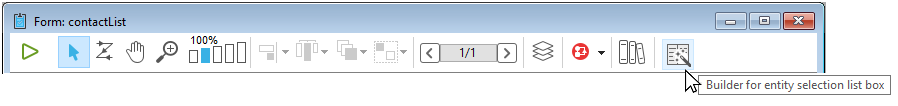
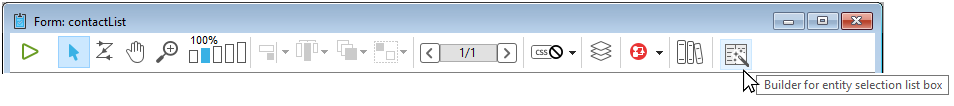
First draft of CSS Preview feature
Added CSS Preview content to form editor and style sheet pages. Added form editor interface content from livedoc to form editor page.

Changed region(s): [[0.0, 0.3113, 0.9978, 0.9057], [0.7795, 0.0, 0.9354, 0.7075], [0.0, 0.1132, 0.1559, 0.283]]

diff --git a/docs/FormEditor/formEditor.md b/docs/FormEditor/formEditor.md
@@ -3,6 +3,177 @@ id: formEditor
 title: Form Editor
 ---
 
+
+## Interface
+
+The Form editor interface displays each form in its own window, which has both an object and tool bar. You can have several forms open at the same time. The rulers on the side and bottom help you position objects in the form. You can change measurement units so that it displays inches, centimeters, or pixels.
+
+### Showing/hiding elements 
+
+You can show or hide most interface elements in the Form editor. This feature allows you to show only the elements that you need to create or view in a form, or only the tools that you want to use. This option is always applied to the Form editor’s current window. For example, it is useful to show the output control lines when you are working on an output form.
+
+To show or hide an element in the Form editor:
+
+1.	Choose **Display** from the Form menu.
+	OR
+	Use the **Display** command in the context menu that appears in the Form editor’s window (right-click in the window without clicking on an object).
+	A hierarchical submenu appears listing all the elements that you can show or hide:<p>![](assets/en/FormEditor/showHideElements.png)<p>A check mark placed next to the element indicates that it will be shown. To hide an element, select the element so that the check mark disappears.
+
+2.	Select the element that you want to show or hide.<p>Here is a description of the commands in this menu:
+	*	**Inherited form**: Shows or hides inherited form objects (if there is an inherited form) on the current page of the form. For more information, refer to Using inherited forms.
+	*	**Page 0**: Shows or hides the objects from page 0 on the form’s current page. This option allows you to distinguish between the objects on the form’s current page and those on page 0. For more information about pages in forms, refer to the Creating a multi-page form section.
+	*	**Paper**: Shows or hides the borders of the printing page, which are shown as gray lines. This option may have no apparent effect when the Limits (see below) option is selected. If the size of the form is smaller than the printing page, the page’s borders are shown outside of the form’s viewing area and therefore do not appear. Refer to Printing a form.
+	*	**Rulers**: Shows or hides the rulers in the Form editor’s window.
+Markers: Shows or hides the output control lines and associated markers that show the limits of the form’s different areas.
+	*	**Marker Labels**: Shows or hides the marker labels, available only when the output control lines are displayed. For more information, refer to the Moving output control lines paragraph.
+	*	**Limits**: Shows or hides the form’s limits. When this option is selected, the form is displayed in the Form editor as it appears in Application mode. This way you can adjust your form without having to switch to the Application mode in order to see the result.
+
+	>The Size Based on, Hor margin and Vert margin settings of the form properties affect the form’s limits. When using these settings, the limits are based on the objects in the form. When you modify the size of an object that is located next to the form’s border, it is modified to reflect that change. For more information on form properties, refer to the Form properties section.
+
+
+
+
+
+### Using the toolbar
+
+The toolbar of the Form editor offers a set of tools to manipulate and modify the form. Each window has its own toolbar.
+
+![](assets/en/FormEditor/toolbar.png)
+
+The toolbar contains the following elements:
+
+|Icon |Name|Description |
+|---|---|---|
+|![](assets/en/FormEditor/execute.png)| Execute the form| Used to test the execution of the form. When you click on this button, 4D opens a new window and displays the form in its context (list of records for a list form and current record page for a detail form). The form is executed in the main process.|
+|![](assets/en/FormEditor/selection.png)| Selection tool|Allows selecting, moving and resizing form objects.<p>**Note**: When an object of the Text or Group Box type is selected, pressing the **Enter** key lets you switch to editing mode.|
+|![](assets/en/FormEditor/zOrder.png)| Entry order| Switches to “Entry order” mode, where it is possible to view and change the current entry order of the form. Note that shields now allow viewing the current entry order, while still working in the form. |
+|![](assets/en/FormEditor/moving.png)| Moving| Switches to “Move” mode, where it is possible to reach any part of the form quickly by using drag and drop in the window. The cursor takes the shape of a hand. This navigation mode is particularly useful when zooming in the form.|
+|![](assets/en/FormEditor/zoom.png)| [Zoom](#zoom)| Allows modifying the form display percentage (100% by default). You can switch to “Zoom” mode by clicking on the magnifying glass or by clicking directly on the desired bar. This feature is detailed in previous section.|
+|![](assets/en/FormEditor/alignment.png)| Alignment| This button is linked to a menu that allows aligning objects in the form. It is enabled (or not) depending on the objects selected.|
+|![](assets/en/FormEditor/distribution.png)| Distribution| This button is linked to a menu that allows distributing objects in the form. It is enabled (or not) depending on the objects selected.|
+|![](assets/en/FormEditor/level.png)| Level| This button is linked to a menu that allows changing the level of objects in the form. It is enabled (or not) depending on the objects selected. |
+|![](assets/en/FormEditor/group.png)| Group/Ungroup| This button is linked to a menu that allows grouping and ungrouping selections of objects in the form. It is enabled (or not) depending on the objects selected. |
+|![](assets/en/FormEditor/displyAndPage.png)| Display and page management| This area allows passing from one form page to another and adding pages. To navigate among form pages, click the arrow buttons, or click the central area and choose the page to display from the menu that appears. If you click the right arrow button while the last form page is displayed, 4D allows you to add a page. |
+|![](assets/en/FormEditor/cssPreviewicon.png) |[CSS Preview](#css-preview)|This button is used to select the CSS Mode to use. |
+|![](assets/en/FormEditor/views.png)| [Managing views](#views)|This button displays or hides the views palette. This new function is detailed in Using object views .|
+|![](assets/en/FormEditor/shields2.png)| [Displaying shields](#shields)| Each click on this button causes the successive display of each type of form shield. The button is also linked to a menu that allows directly selecting the type of shield to display. |
+|![](assets/en/FormEditor/library.png)| Preconfigured object library| This button displays the preconfigured object library that provides numerous objects with certain properties that have been predefined. |
+|![](assets/en/FormEditor/listBoxBuilder1.png)|[List Box Builder](#list-box-builder)|This button creates new entity selection list boxes. |
+
+### Using the object bar  
+
+The object bar contains all the active and inactive objects that can be used in 4D forms. Some objects are grouped together by themes (buttons, radio buttons, menus, etc.). Each theme includes several alternatives that you can choose between. When the object bar has the focus, you can select the buttons using the keys of the keyboard. The following table describes the object groups available and their associated shortcut key.
+
+|Button	|Group	|Key|
+|---|---|---|
+|![](assets/en/FormEditor/text.png)|	Text / Group Box|	T|
+|![](assets/en/FormEditor/input.png)|	Field / Variable|	F|
+|![](assets/en/FormEditor/listbox.png)|	Scrollable Area / Hierarchical List / List Box|	L|
+|![](assets/en/FormEditor/combo.png)|	Combo Box / Pop-up/Drop-down List / Hierarchical Pop-up Menu / Picture Pop-up Menu|	P|
+|![](assets/en/FormEditor/button.png)|	Button / 3D Button / Highlight Button / Invisible Button / Picture Button / Button Grid|	B|
+|![](assets/en/FormEditor/radio.png)|	Radio Button / 3D Radio Button / Picture Radio Button|	R|
+|![](assets/en/FormEditor/checkbox.png)|	Check Box / 3D Check Box|	C|
+|![](assets/en/FormEditor/indicator.png)|	Progress Indicator / Dial / Ruler	I
+|![](assets/en/FormEditor/rectangle.png)|	Rectangle / Line / Rounded Rectangle / Oval / Matrix	|S|
+|![](assets/en/FormEditor/splitter.png)|	Splitter / Tab Control	D|
+|![](assets/en/FormEditor/plugin.png)|	Plug-in Area / Subform / Web Area|	X|
+
+To draw an object type, select the corresponding button and then trace the object in the form. After creating an object, you can modify its type using the Property List. Hold down the **Shift** key as you draw to constrain the object to a regular shape. Lines are constrained to horizontal, 45°, or vertical, rectangles are constrained to squares, and ovals are constrained to circles.
+
+The current variant of the theme is the object that will be inserted in the form. When you click the right side of a button, you access the variant menu:
+
+![](assets/en/FormEditor/objectBar.png)
+
+When a button is selected, you can scroll through its variants using the **Shift+Selection** key shortcut. Help tips display the currently selected variant and the associated selection key of the object.
+
+You can click twice on the button so that it remains selected even after you have traced an object in the form (continual selection). This function makes creating several successive objects of the same type easier. To cancel a continual selection, click on another object or tool.
+
+### Using the Property List  
+
+Both forms and form objects have properties that control access to the form, the appearance of the form, and the behavior of the form when it is used. Form properties include, for example, the form’s name, its menu bar, and its size. Object Properties include, for example, an object’s name, its dimensions, its background color, and its font. 
+
+You can display and modify form and object properties using the Property List. It displays either form or objects properties depending on what you select in the editor window.
+
+To display/hide the Property List, choose **Property List** from the **Form** menu or from the context menu of the Form editor. You can also display it by double-clicking in an empty area of the form. 
+
+#### Navigation shortcuts  
+
+You can navigate in the Property List using the following shortcuts:
+
+*	**Arrow key**s ↑ ↓: Used to go from one cell to another.
+*	**Arrow keys** ← →: Used to expand/collapse themes or menus.
+*	**PgUp** and *PgDn*: Used to select the first or last visible cell of the Property List.
+*	**Home** and **End**: Used to select the first or last cell of the Property List.
+*	**Ctrl+click** (Windows) or **Command+click** (Mac OS) on an event: Used to select/deselect every event in the list, according to the initial state of the event on which you clicked.
+*	**Ctrl+click** (Windows) or **Command+click** (Mac OS) on a theme label: Used to Collapse/Expand every theme in the list.
+
+## CSS Preview
+
+The Form Editor provides two options for viewing styled objects:
+
+*	**Plain mode**<br>Only JSON form values defined in the Property List are applied and displayed in the Form Editor. 
+
+*	**CSS mode**<br>[Style sheet attributes](stylesheets.html) are applied and displayed in the Form Editor. 
+
+By default, forms (including inherited and subforms) are opened in the CSS Preview mode for your operating system.
+
+
+
+### View Modes
+
+|Toolbar Icon|CSS Mode |Description|
+|---|---|---|
+|![](assets/en/FormEditor/cssNo.png)|Plain|No CSS values or icons displayed|
+|![](assets/en/FormEditor/cssMac.png)|CSS|CSS values for macOS platform are displayed. CSS icon displayed in Property List.|
+|![](assets/en/FormEditor/cssWin.png)|CSS|CSS values for Windows platform are displayed. CSS icon displayed in Property List.|
+
+>When using CSS mode, only JSON values are used for:
+>*	Copy/Paste operations 
+>*	Macros
+
+
+### Style Sheets & the Property List
+
+In CSS mode, if the value of an attribute has been defined in a style sheet, the attribute's name will appear with a [CSS icon](#css-icon) displayed next to it in the Property List. For example, the attribute values set in this style sheet:
+
+```4d
+.myButton {
+font-family: comic sans;
+font-size: 24;
+stroke: #800080;
+}
+```
+
+The values are shown with a CSS icon in the Property List:
+
+![](assets/en/FormEditor/cssPpropList.png)
+
+>Attribute values that have been modified in JSON form appear in **bold** text in the Property List. You can reset a JSON form attribute value to its default value with the **Ctrl + click** (Windows) or **Command + click** (macOs) shortcuts.
+
+#### Property List CSS Icons
+
+|Icon|Description|
+|---|---|
+|![](assets/en/FormEditor/cssIcon.png)|Indicates that an attribute value has been defined in a style sheet|
+|![](assets/en/FormEditor/cssImportant.png)|Indicates that an attribute value has been defined in a style sheet with the `!important` declaration|
+|![](assets/en/FormEditor/cssIconMixed.png)|Displayed when at least one item in a group or selection of multiple objects has an attribute value defined in a style sheet that is different from the other objects|
+
+#### JSON vs Style Sheet Priority Order
+
+See the [Style sheets](stylesheets.html#json-vs-style-sheet) section.
+
+
+
+### Using CSS Preview
+
+1. In the Form Editor toolbar, click on the CSS Preview icon:<p>![](assets/en/FormEditor/cssPreview.png)
+
+2.	Select the mode from the list:<p> ![](assets/en/FormEditor/cssPreview_list.png)<p>Objects are automatically displayed with the styles defined in a style sheet (if any).
+
+
+>Existing style sheet files are listed below the **CSS Preview** options. Selecting one will open the style sheet in your default text editor.
+
+
 ## List Box Builder
 
 You can create new entity selection list boxes quickly with the **List box builder**. The new list box can be used immediately or it can be edited via the Form Editor.
@@ -53,6 +224,8 @@ The final list box:
 ![](assets/en/FormEditor/listboxBuilderListbox.png)
 
 
+
+
 ## Shields
 
 The 4D Form Editor uses shields to make viewing object properties easier. You can find them on the form toolbar:
@@ -84,6 +257,7 @@ Here is a description of each type of shield:
 |![](assets/en/FormEditor/resizing.png) |Resizing|For objects with at least one resizing property, indicates the combination of current properties |
 |![](assets/en/FormEditor/entryOrder.png)|Entry Order|For enterable objects, indicates the number of entry order |
 |![](assets/en/FormEditor/viewNumber.png) |Current View|For all objects in the current view |
+|![](assets/en/FormEditor/cssShield.png)|Style Sheet|For objects with attribute values defined in a style sheet|
 |![](assets/en/FormEditor/filter.png) |Filter|For enterable objects with an associated entry filter |
 |![](assets/en/FormEditor/helpTip.png) |Help Tip|For objects with an associated tip |
 |![](assets/en/FormEditor/localized.png)|Localized|For objects whose label comes from a reference (label beginning with “:”). The reference can be of the resource (STR#) or XLIFF type |
@@ -305,6 +479,20 @@ To lock the objects of a view, click the *Lock/Unlock* icon. The padlock is shut
 >The [Current view](#before-you-begin) cannot be locked.
 
 To unlock a view that is locked, simply select it or click on the *Lock/Unlock* icon for that view.
+
+### Zoom  
+
+You can zoom in the current form. Switch to “Zoom” mode by clicking on the magnifying glass icon or clicking directly on the desired percentage bar (50%, 100%, 200%, 400% and 800%):
+
+![](assets/en/FormEditor/zoom.png)
+
+*	When you click on the magnifying glass, the cursor changes into one. You can then click in the form to increase the display or hold down Shift and click to reduce the display percentage. 
+*	When you click on a percentage bar, the display is immediately modified.
+
+In Zoom mode, all Form editor functions remain available(*).
+
+(*) For technical reasons, it is not possible to select list box elements (headers, columns, footers) when the Form editor is in Zoom mode.
+
 
 
 

diff --git a/docs/FormEditor/createStylesheet.md b/docs/FormEditor/createStylesheet.md
@@ -230,8 +230,8 @@ icon: url("edit.png"); /* relative path to the form file */
 
 - For `fill`, `stroke` , `alternateFill` , `horizontalLineStroke` and `verticalLineStroke`, three syntaxes are supported:
 
-	- css color name: `fill: red;`
-	- hexa value: `fill: #FF0000;`
+	- CSS color name: `fill: red;`
+	- Hexa value: `fill: #FF0000;`
 	- the `rgb()` function: `fill:rgb(255,0,0)`
 
 - If a string uses forbidden characters in CSS, you can surround the string with simple or double quotes. For example:
@@ -263,6 +263,7 @@ To override this behavior, the style value must be followed with an `!important`
 |---|---|---|
 |`"text": "Button",`|`text: Edit !important;`| `"Edit"`|
 
+>If an attribute with the `!important` declaration has been defined for a group, an object within a group, or any object within a selection of multiple objects, that attribute value is locked and cannot be changed in the Property List. 
 
 
 ### Multiple Style Sheets
@@ -300,12 +301,6 @@ At runtime, 4D automatically prioritizes style sheets in the following order:
 > Filepaths can be relative or absolute.
 >*	Relative paths are resolved relative to the JSON form description file.
 >*	For security reasons, only filesystem paths are accepted for absolute paths. (*e.g.*, "/RESOURCES", "/DATA")
-
-
-
-
-
-
 
 
 ## Creating or Editing Style Sheets
